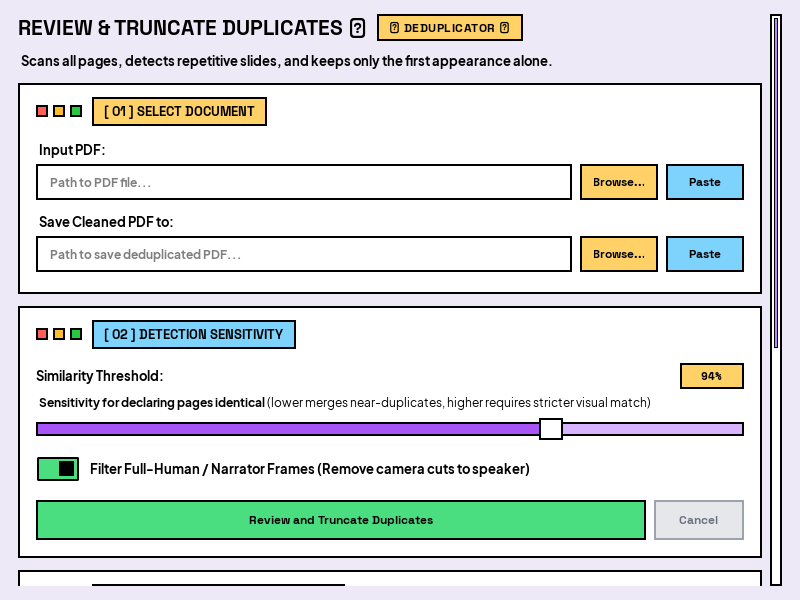
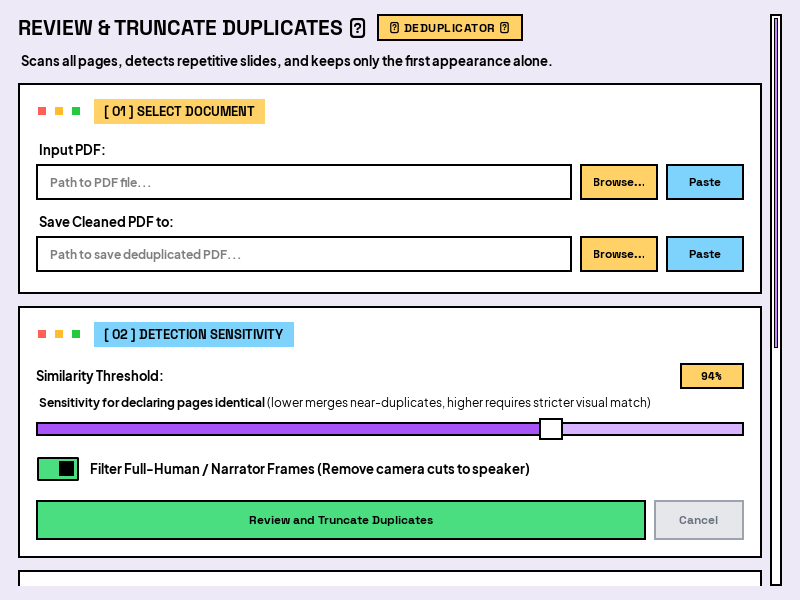
readme changes

diff --git a/README.md b/README.md
@@ -10,25 +10,25 @@
 </p>
 
 <p align="center">
-  <a href="https://github.com/vector49/DeckSpool/releases"><img src="https://img.shields.io/badge/Release-v1.0.0-blue?style=flat-square&logo=windows" alt="Release"></a>
-  <img src="https://img.shields.io/badge/Platform-Windows%20(MSI%20%7C%20ZIP)-0078D6?style=flat-square&logo=windows&logoColor=white" alt="Windows Support">
+  <a href="https://github.com/vector49/DeckSpool/releases"><img src="https://img.shields.io/badge/Release-v1.0.0-blue?style=flat-square&logo=windows" alt="Release v1.0.0"></a>
+  <img src="https://img.shields.io/badge/Windows-MSI%20Installer%20%7C%20Portable%20ZIP-0078D6?style=flat-square&logo=windows&logoColor=white" alt="Windows Support">
   <img src="https://img.shields.io/badge/Python-3.10+-3776AB?style=flat-square&logo=python&logoColor=white" alt="Python 3.10+">
   <img src="https://img.shields.io/badge/GUI-PySide6%20%28Qt6%29-41CD52?style=flat-square&logo=qt&logoColor=white" alt="PySide6">
   <a href="LICENSE"><img src="https://img.shields.io/badge/License-Apache_2.0-2374AB.svg?style=flat-square" alt="License: Apache 2.0"></a>
 </p>
 
 <p align="center">
-  <a href="https://github.com/vector49/DeckSpool/releases"><strong>Download Windows Installer (.msi)</strong></a> •
-  <a href="https://github.com/vector49/DeckSpool/releases"><strong>Download Portable Edition (.zip)</strong></a> •
-  <a href="#quick-start--installation"><strong>Run from Source</strong></a>
+  <a href="https://github.com/vector49/DeckSpool/releases"><strong>⬇ Download Windows Installer (.msi)</strong></a> •
+  <a href="https://github.com/vector49/DeckSpool/releases"><strong>📦 Download Portable Edition (.zip)</strong></a> •
+  <a href="#quick-start--installation"><strong>🚀 Run from Source</strong></a>
 </p>
 
 ---
 
 <p align="center">
-  <img src="docs/images/deckspool_gui_dark.png" alt="DeckSpool Desktop GUI - Dark Mode" width="880">
+  <img src="docs/images/deckspool_gui_light.png" alt="DeckSpool Desktop GUI - Signature Light Theme" width="880">
   <br>
-  <em>DeckSpool Neo-Brutalist Desktop Interface (Dark Theme)</em>
+  <em>DeckSpool Neo-Brutalist Desktop Interface (Default Light Theme)</em>
 </p>
 
 ---
@@ -38,8 +38,8 @@
 **DeckSpool** is a modern desktop application built with Python and PySide6 (Qt6) that automatically detects and extracts unique presentation slides from YouTube URLs or local video files and compiles them into clean, lossless PDF documents.
 
 It is engineered to solve common video-to-slide extraction challenges:
-- **Animated Bullet Points & Progressive Handwriting**: Eliminates duplicate partial builds by waiting for the slide content to settle.
-- **Speaker Cutaways & Narrator Camera Shots**: Detects and purges speaker-only talking shots using onboard neural face detection (`YuNet`).
+- **Animated Bullet Points & Progressive Handwriting**: Eliminates duplicate partial builds by waiting for the slide content to stabilize.
+- **Speaker Cutaways & Full-Human Shots**: Detects and purges speaker-only talking shots using onboard neural face detection (`YuNet`).
 - **Webcam Overlays & Picture-in-Picture (PIP)**: Intelligently masks corner speaker cams to avoid false slide transitions.
 - **Player Bars & Control Overlays**: Masks YouTube progress scrubbers and playback controls.
 - **Letterboxing & Pillarboxing**: Auto-crops black borders for clean, edge-to-edge slide output.
@@ -52,19 +52,19 @@ DeckSpool offers two official pre-compiled Windows releases alongside standard c
 
 ### Method 1: Pre-Compiled Windows Releases (Recommended)
 
-Visit the [**Latest Releases**](https://github.com/vector49/DeckSpool/releases) page to download either flavor:
+Download the latest version from the [**GitHub Releases**](https://github.com/vector49/DeckSpool/releases) page:
 
 #### A. Native Windows Installer (`.msi`)
-- **Interactive Directory Selection**: Choose your preferred destination folder or accept the default.
-- **Windows Integration**: Creates Start Menu entries indexed by Windows Search, optional Desktop shortcut, and registered uninstaller in *Windows Installed Apps*.
-- **Instant Launch**: Option to start DeckSpool immediately upon completing installation.
-- **Deliverable**: `DeckSpool-v1.0.0-windows-x64-installer.msi`
+- **Interactive Directory Selection**: Choose your preferred destination folder via the `"Change..."` directory browser or accept the standard default.
+- **Windows Integration**: Creates Start Menu entries indexed by Windows Search, an optional Desktop shortcut, and registers a standard uninstaller in *Windows Installed Apps*.
+- **Post-Install Instant Launch**: Check `"Run DeckSpool"` on the final wizard screen to launch immediately.
+- **File**: `DeckSpool-v1.0.0-windows-x64-installer.msi`
 
 #### B. Standalone Portable Package (`.zip`)
-- **Zero Installation**: Extract to any folder, external drive, or USB flash drive and run.
-- **No Administrative Rights**: Runs immediately without UAC elevation or modifying the Windows Registry.
-- **Self-Contained**: To uninstall, simply delete the extracted folder.
-- **Deliverable**: `DeckSpool-v1.0.0-windows-x64-portable.zip`
+- **Plug & Play**: Extract the ZIP archive to any directory or USB drive and double-click `DeckSpool.exe`.
+- **Zero Installation**: Completely self-contained; requires no administrator privileges or UAC elevation and makes no modifications to the Windows Registry.
+- **Clean Removal**: Simply delete the folder when finished.
+- **File**: `DeckSpool-v1.0.0-windows-x64-portable.zip`
 
 ---
 
@@ -73,57 +73,58 @@ Visit the [**Latest Releases**](https://github.com/vector49/DeckSpool/releases) 
 Ensure Python 3.10 or newer is installed on your system.
 
 ```bash
-# Clone the repository
+# 1. Clone the repository
 git clone https://github.com/vector49/DeckSpool.git
 cd DeckSpool
 
-# Create and activate a virtual environment (recommended)
+# 2. Create and activate a virtual environment (recommended)
 python -m venv venv
+
 # On Windows:
 .\venv\Scripts\activate
 # On Linux/macOS:
 source venv/bin/activate
 
-# Install required dependencies
+# 3. Install dependencies
 pip install -r requirements.txt
 
-# Launch DeckSpool
+# 4. Launch DeckSpool
 python main.py
 ```
 
 #### Core Dependencies
-- `PySide6`: Hardware-accelerated Qt6 desktop GUI framework.
+- `PySide6`: Modern, hardware-accelerated Qt6 desktop GUI framework.
 - `yt-dlp`: Stream resolution and video ingestion without re-encoding.
 - `opencv-python-headless`: Fast frame seeking, image transformation, and vectorized SSIM.
 - `imagehash`: 64-bit perceptual difference hashing (`dHash`).
 - `img2pdf`: Lossless image-to-PDF compiler without lossy re-compression.
 - `pypdfium2`: High-speed PDF page rasterization and page extraction.
-- `Pillow`: Image manipulation and thumbnail preview rendering.
+- `Pillow`: Image processing and thumbnail preview rendering.
 - `scipy` & `numpy`: High-performance array operations.
 
 ---
 
-### Building Release Packages from Source
+### Building Official Releases from Source
 
 To compile the standalone portable zip and native MSI installer locally on Windows:
 
 ```bash
-# Requires WiX Toolset v3 installed (for MSI generation)
+# Requires WiX Toolset v3 installed on PATH (for MSI compilation)
 python build_release.py
 ```
 
-This compiles the core with PyInstaller, generates the `.zip` archive, builds the `.msi` package via WiX, and calculates cryptographic SHA-256 checksums (`SHA256SUMS.txt`) in `dist/release/`.
+This compiles the core executable with PyInstaller, packages the portable `.zip`, synthesizes the WiX product definition, builds the `.msi` installer, and calculates cryptographic SHA-256 checksums (`SHA256SUMS.txt`) in `dist/release/`.
 
 ---
 
-## User Interface & Themes
+## User Interface & Dual Themes
 
 DeckSpool features a signature Neo-Brutalist interface with high-contrast typography, responsive layout containers, and seamless one-click dark/light theme switching.
 
 <p align="center">
-  <img src="docs/images/deckspool_gui_light.png" alt="DeckSpool Desktop GUI - Light Mode" width="880">
+  <img src="docs/images/deckspool_gui_dark.png" alt="DeckSpool Desktop GUI - Dark Theme" width="880">
   <br>
-  <em>DeckSpool Neo-Brutalist Desktop Interface (Light Theme)</em>
+  <em>DeckSpool Neo-Brutalist Desktop Interface (High-Contrast Dark Theme)</em>
 </p>
 
 ---
@@ -135,7 +136,7 @@ In addition to live video processing, DeckSpool includes a dedicated standalone 
 <p align="center">
   <img src="docs/images/deckspool_dedup_dialog.png" alt="Review & Deduplicate PDF Dialog" width="680">
   <br>
-  <em>Interactive PDF Deduplication & Speaker Pruning Modal</em>
+  <em>Interactive PDF Deduplication & Speaker Cutaway Truncation Tool</em>
 </p>
 
 - **Keep First Appearance Alone**: Scans multi-page slide decks, identifies recurring duplicate slides (such as repeated agenda slides or title cards), and removes duplicates while preserving the initial instance.
@@ -176,15 +177,16 @@ In addition to live video processing, DeckSpool includes a dedicated standalone 
 1. **Choose Source**: Select **YouTube URL** or **Local File**.
    - **YouTube**: Paste the video link (e.g., `https://www.youtube.com/watch?v=...`). The video title is automatically queried in the background to name your PDF.
    - **Local File**: Click **Browse...** to pick any `.mp4`, `.mkv`, `.mov`, `.avi`, or `.webm` presentation video.
-2. **Configure Detection (Optional)**:
+2. **Configure Detection Parameters (Optional)**:
    - **Sample Interval**: 0.5s to 5.0s (Default: `1.0s`).
    - **Similarity Threshold**: 80% to 99% (Default: `92%`).
    - **Debounce / Settle Time**: 1.0s to 10.0s (Default: `2.0s`).
    - **Min Slide Duration**: 1.0s to 15.0s (Default: `2.0s`).
-3. **Configure Preprocessing**:
-   - Toggle **Mask Presenter / PIP** if a webcam overlay is present.
-   - Toggle **Ignore Player Chrome** (default: On) to mask player controls.
-   - Toggle **Canvas Auto-Crop** to eliminate black borders around slides.
+3. **Configure Preprocessing Toggles**:
+   - **Mask Presenter / PIP**: Exclude speaker webcam overlays from slide analysis.
+   - **Ignore Player Chrome**: Automatically mask player controls and scrubber bars.
+   - **Canvas Auto-Crop**: Crop out black letterbox and pillarbox padding.
+   - **Truncate Global Duplicate Slides**: Filter recurring duplicate slides throughout the deck, keeping only the first occurrence.
 4. **Start Extraction**: Click the **Start Extraction** button. Monitor real-time progress, FPS, slide count, and live preview thumbnails.
 5. **Open Document**: Once finished, click **Open PDF** or **Open Folder** directly from the completion modal.
 
